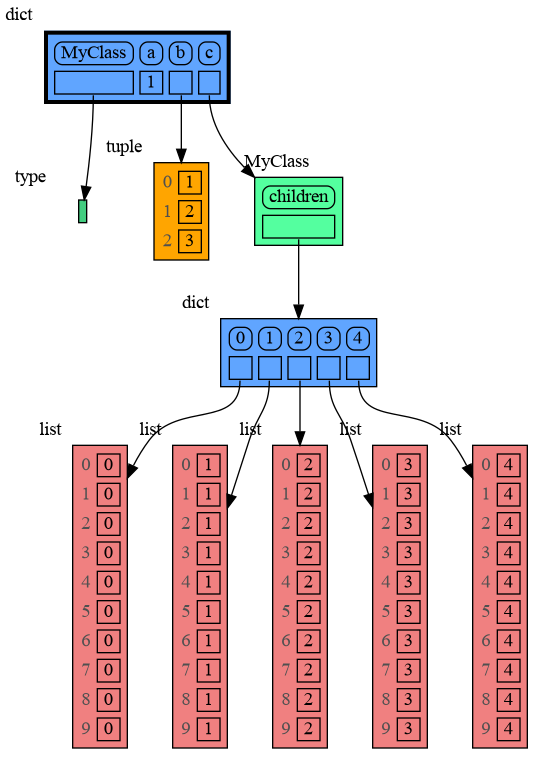
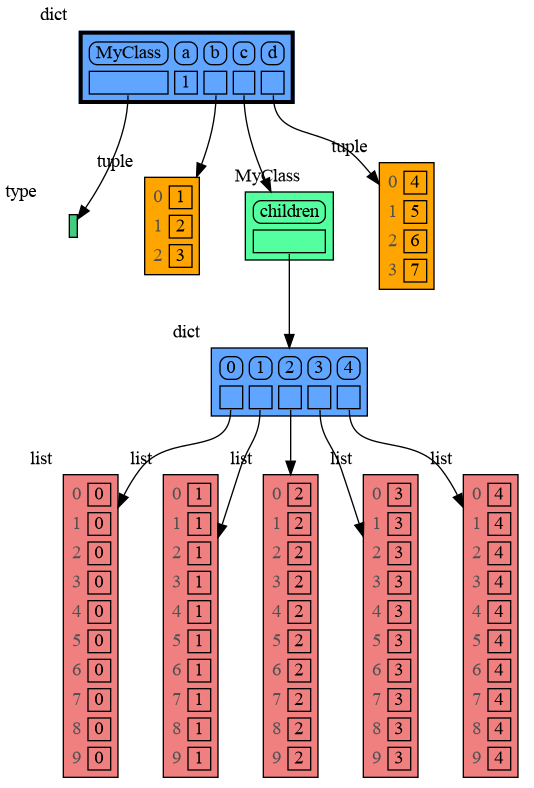
collapse_type of id added

diff --git a/images/collapse_type2.py b/images/collapse_type2.py
@@ -1,0 +1,15 @@
+import memory_graph as mg
+
+class MyClass:
+    def __init__(self):
+        self.children = {i: [i]*10 for i in range(5)}
+
+a = 1
+b = (1, 2, 3)
+c = MyClass()
+d = (4, 5, 6, 7)
+
+# for better graph readability in large graphs
+mg.collapse_type(type(c))  # collapse type(c) 
+mg.collapse_type(id(d))    # collapse id(d)
+mg.render(locals(), "collapse_type2.png")

diff --git a/images/collapse_type1.py b/images/collapse_type1.py
@@ -1,0 +1,12 @@
+import memory_graph as mg
+
+class MyClass:
+    def __init__(self):
+        self.children = {i: [i]*10 for i in range(5)}
+
+a = 1
+b = (1, 2, 3)
+c = MyClass()
+d = (4, 5, 6, 7)
+
+mg.render(locals(), "collapse_type1.png")

diff --git a/README.md b/README.md
@@ -1025,10 +1025,10 @@ import memory_graph as mg
 class MyClass:
     def __init__(self):
         self.children = {i: [i]*10 for i in range(5)}
-
 a = 1
-b = (1,2,3)
+b = (1, 2, 3)
 c = MyClass()
+d = (4, 5, 6, 7)
 
 mg.l()
 ```
@@ -1044,10 +1044,13 @@ class MyClass:
         self.children = {i: [i]*10 for i in range(5)}
 
 a = 1
-b = (1,2,3)
+b = (1, 2, 3)
 c = MyClass()
+d = (4, 5, 6, 7)
 
-mg.collapse_type(MyClass)  # collapse type 'MyClass' for better graph readability
+# for better graph readability in large graphs
+mg.collapse_type(type(c))  # collapse type(c) 
+mg.collapse_type(id(d))    # collapse id(d)
 mg.l()
 ```
 ![collapse_type2.png](https://raw.githubusercontent.com/bterwijn/memory_graph/main/images/collapse_type2.png)